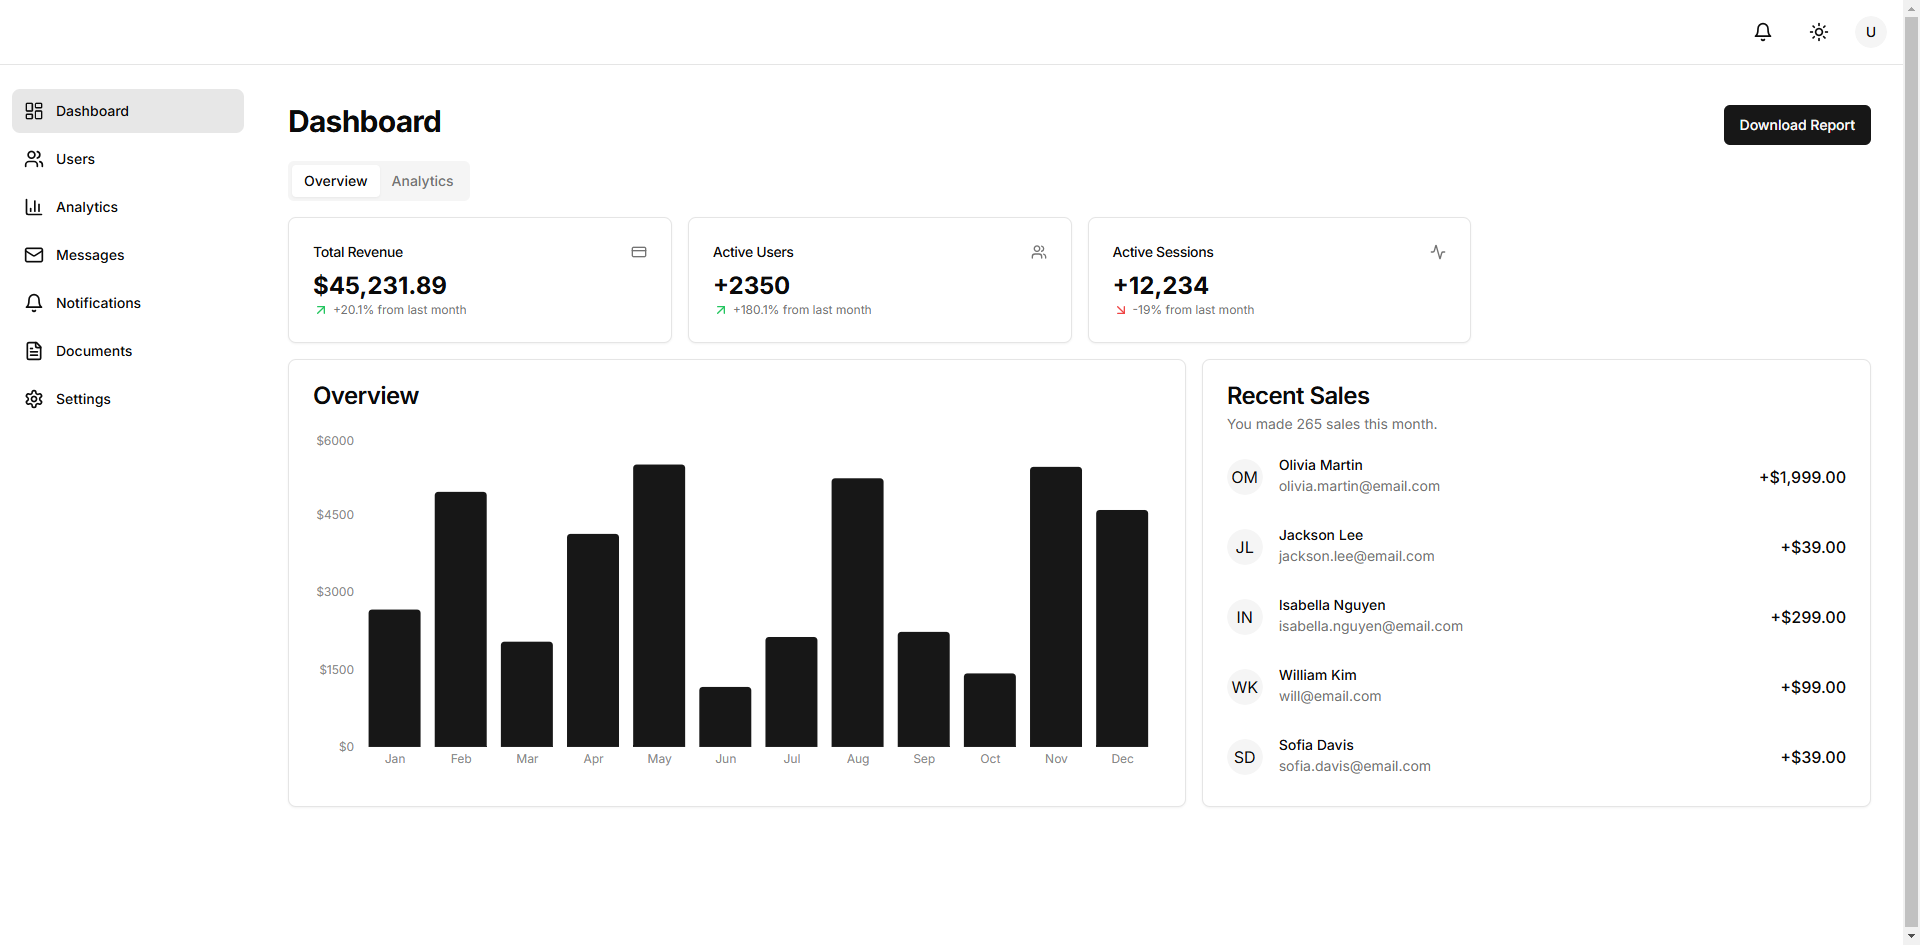
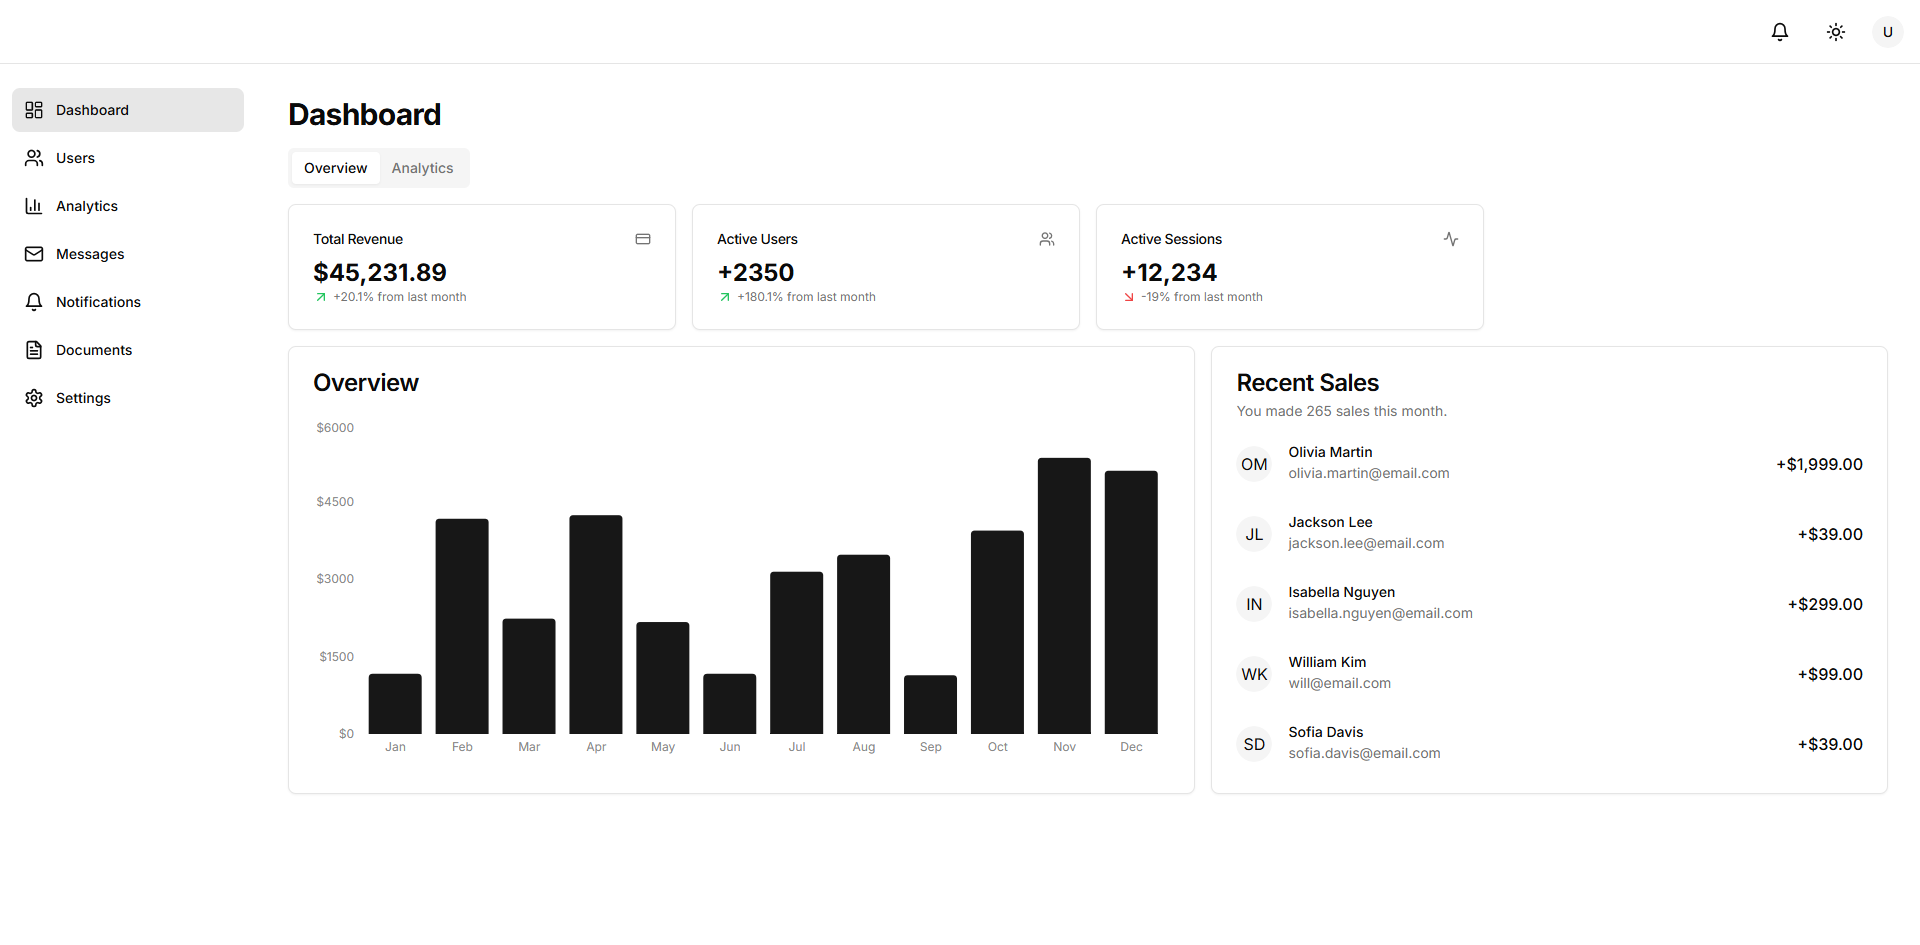
repair

diff --git a/app/(dashboard)/dashboard/page.tsx b/app/(dashboard)/dashboard/page.tsx
@@ -3,92 +3,89 @@ import {
   CardContent,
   CardDescription,
   CardHeader,
-  CardTitle,
-} from '@/components/ui/card';
-import { Overview } from '@/components/overview';
-import { RecentSales } from '@/components/recent-sales';
-import { Button } from '@/components/ui/button';
-import { Tabs, TabsContent, TabsList, TabsTrigger } from '@/components/ui/tabs';
+  CardTitle
+} from '@/components/ui/card'
+import { Overview } from '@/components/overview'
+import { RecentSales } from '@/components/recent-sales'
+import { Button } from '@/components/ui/button'
+import { Tabs, TabsContent, TabsList, TabsTrigger } from '@/components/ui/tabs'
 import {
   ArrowUpRight,
   Users,
   CreditCard,
   Activity,
-  ArrowDownRight,
-} from 'lucide-react';
+  ArrowDownRight
+} from 'lucide-react'
 
-export default function DashboardPage() {
+export default function DashboardPage () {
   return (
-    <div className="flex-1 space-y-4">
-      <div className="flex items-center justify-between space-y-2">
-        <h2 className="text-3xl font-bold tracking-tight">Dashboard</h2>
-        <div className="flex items-center space-x-2">
-          <Button>Download Report</Button>
-        </div>
+    <div className='flex-1 space-y-4'>
+      <div className='flex items-center justify-between space-y-2'>
+        <h2 className='text-3xl font-bold tracking-tight'>Dashboard</h2>
       </div>
-      <Tabs defaultValue="overview" className="space-y-4">
+      <Tabs defaultValue='overview' className='space-y-4'>
         <TabsList>
-          <TabsTrigger value="overview">Overview</TabsTrigger>
-          <TabsTrigger value="analytics">Analytics</TabsTrigger>
+          <TabsTrigger value='overview'>Overview</TabsTrigger>
+          <TabsTrigger value='analytics'>Analytics</TabsTrigger>
         </TabsList>
-        <TabsContent value="overview" className="space-y-4">
-          <div className="grid gap-4 md:grid-cols-2 lg:grid-cols-4">
+        <TabsContent value='overview' className='space-y-4'>
+          <div className='grid gap-4 md:grid-cols-2 lg:grid-cols-4'>
             <Card>
-              <CardHeader className="flex flex-row items-center justify-between space-y-0 pb-2">
-                <CardTitle className="text-sm font-medium">
+              <CardHeader className='flex flex-row items-center justify-between space-y-0 pb-2'>
+                <CardTitle className='text-sm font-medium'>
                   Total Revenue
                 </CardTitle>
-                <CreditCard className="h-4 w-4 text-muted-foreground" />
+                <CreditCard className='h-4 w-4 text-muted-foreground' />
               </CardHeader>
               <CardContent>
-                <div className="text-2xl font-bold">$45,231.89</div>
-                <p className="text-xs text-muted-foreground flex items-center">
-                  <ArrowUpRight className="h-4 w-4 text-green-500 mr-1" />
+                <div className='text-2xl font-bold'>$45,231.89</div>
+                <p className='text-xs text-muted-foreground flex items-center'>
+                  <ArrowUpRight className='h-4 w-4 text-green-500 mr-1' />
                   +20.1% from last month
                 </p>
               </CardContent>
             </Card>
             <Card>
-              <CardHeader className="flex flex-row items-center justify-between space-y-0 pb-2">
-                <CardTitle className="text-sm font-medium">
+              <CardHeader className='flex flex-row items-center justify-between space-y-0 pb-2'>
+                <CardTitle className='text-sm font-medium'>
                   Active Users
                 </CardTitle>
-                <Users className="h-4 w-4 text-muted-foreground" />
+                <Users className='h-4 w-4 text-muted-foreground' />
               </CardHeader>
               <CardContent>
-                <div className="text-2xl font-bold">+2350</div>
-                <p className="text-xs text-muted-foreground flex items-center">
-                  <ArrowUpRight className="h-4 w-4 text-green-500 mr-1" />
+                <div className='text-2xl font-bold'>+2350</div>
+                <p className='text-xs text-muted-foreground flex items-center'>
+                  <ArrowUpRight className='h-4 w-4 text-green-500 mr-1' />
                   +180.1% from last month
                 </p>
               </CardContent>
             </Card>
             <Card>
-              <CardHeader className="flex flex-row items-center justify-between space-y-0 pb-2">
-                <CardTitle className="text-sm font-medium">
+              <CardHeader className='flex flex-row items-center justify-between space-y-0 pb-2'>
+                <CardTitle className='text-sm font-medium'>
                   Active Sessions
                 </CardTitle>
-                <Activity className="h-4 w-4 text-muted-foreground" />
+                <Activity className='h-4 w-4 text-muted-foreground' />
               </CardHeader>
               <CardContent>
-                <div className="text-2xl font-bold">+12,234</div>
-                <p className="text-xs text-muted-foreground flex items-center">
-                  <ArrowDownRight className="h-4 w-4 text-red-500 mr-1" />
+                <div className='text-2xl font-bold'>+12,234</div>
+                <p className='text-xs text-muted-foreground flex items-center'>
+                  <ArrowDownRight className='h-4 w-4 text-red-500 mr-1' />
                   -19% from last month
                 </p>
               </CardContent>
             </Card>
           </div>
-          <div className="grid gap-4 grid-cols-1 md:grid-cols-2 lg:grid-cols-7">
-            <Card className="col-span-4">
+          <div className='grid gap-4 grid-cols-1 md:grid-cols-2 lg:grid-cols-7'>
+            <Card className='col-span-4'>
               <CardHeader>
                 <CardTitle>Overview</CardTitle>
               </CardHeader>
-              <CardContent className="pl-2">
+              <CardContent className='pl-2'>
                 <Overview />
               </CardContent>
             </Card>
-            <Card className="col-span-3">
+            <Card className='col-span-3'>
               <CardHeader>
                 <CardTitle>Recent Sales</CardTitle>
                 <CardDescription>
@@ -103,5 +100,5 @@ export default function DashboardPage() {
         </TabsContent>
       </Tabs>
     </div>
-  );
+  )
 }

diff --git a/components/header.tsx b/components/header.tsx
@@ -1,53 +1,53 @@
-'use client';
+'use client'
 
-import { ThemeToggle } from '@/components/theme-toggle';
-import { Button } from '@/components/ui/button';
+import { ThemeToggle } from '@/components/theme-toggle'
+import { Button } from '@/components/ui/button'
 import {
   DropdownMenu,
   DropdownMenuContent,
   DropdownMenuItem,
   DropdownMenuLabel,
   DropdownMenuSeparator,
-  DropdownMenuTrigger,
-} from '@/components/ui/dropdown-menu';
-import { Avatar, AvatarFallback, AvatarImage } from '@/components/ui/avatar';
-import { Bell, Menu } from 'lucide-react';
-import { Sheet, SheetContent, SheetTrigger } from '@/components/ui/sheet';
-import { Sidebar } from '@/components/sidebar';
+  DropdownMenuTrigger
+} from '@/components/ui/dropdown-menu'
+import { Avatar, AvatarFallback, AvatarImage } from '@/components/ui/avatar'
+import { Bell, Menu } from 'lucide-react'
+import { Sheet, SheetContent, SheetTrigger } from '@/components/ui/sheet'
+import { Sidebar } from '@/components/sidebar'
 
-export function Header() {
+export function Header () {
   return (
-    <div className="border-b">
-      <div className="flex h-16 items-center px-4">
+    <div className='border-b h-[4rem]'>
+      <div className='flex h-16 items-center px-4'>
         <Sheet>
           <SheetTrigger asChild>
-            <Button variant="ghost" size="icon" className="md:hidden">
-              <Menu className="h-6 w-6" />
+            <Button variant='ghost' size='icon' className='md:hidden'>
+              <Menu className='h-6 w-6' />
             </Button>
           </SheetTrigger>
-          <SheetContent side="left" className="p-0">
+          <SheetContent side='left' className='p-0'>
             <Sidebar />
           </SheetContent>
         </Sheet>
-        <div className="ml-auto flex items-center space-x-4">
-          <Button variant="ghost" size="icon">
-            <Bell className="h-5 w-5" />
+        <div className='ml-auto flex items-center space-x-4'>
+          <Button variant='ghost' size='icon'>
+            <Bell className='h-5 w-5' />
           </Button>
           <ThemeToggle />
           <DropdownMenu>
             <DropdownMenuTrigger asChild>
-              <Button variant="ghost" className="relative h-8 w-8 rounded-full">
-                <Avatar className="h-8 w-8">
-                  <AvatarImage src="/avatars/01.png" alt="@user" />
+              <Button variant='ghost' className='relative h-8 w-8 rounded-full'>
+                <Avatar className='h-8 w-8'>
+                  <AvatarImage src='/avatars/01.png' alt='@user' />
                   <AvatarFallback>U</AvatarFallback>
                 </Avatar>
               </Button>
             </DropdownMenuTrigger>
-            <DropdownMenuContent className="w-56" align="end" forceMount>
-              <DropdownMenuLabel className="font-normal">
-                <div className="flex flex-col space-y-1">
-                  <p className="text-sm font-medium leading-none">Admin User</p>
-                  <p className="text-xs leading-none text-muted-foreground">
+            <DropdownMenuContent className='w-56' align='end' forceMount>
+              <DropdownMenuLabel className='font-normal'>
+                <div className='flex flex-col space-y-1'>
+                  <p className='text-sm font-medium leading-none'>Admin User</p>
+                  <p className='text-xs leading-none text-muted-foreground'>
                     admin@example.com
                   </p>
                 </div>
@@ -61,5 +61,5 @@ export function Header() {
         </div>
       </div>
     </div>
-  );
+  )
 }

diff --git a/app/(dashboard)/layout.tsx b/app/(dashboard)/layout.tsx
@@ -1,22 +1,20 @@
-import { Header } from '@/components/header';
-import { Sidebar } from '@/components/sidebar';
+import { Header } from '@/components/header'
+import { Sidebar } from '@/components/sidebar'
 
-export default function DashboardLayout({
-  children,
+export default function DashboardLayout ({
+  children
 }: {
-  children: React.ReactNode;
+  children: React.ReactNode
 }) {
   return (
-    <div className="h-screen">
+    <div className='h-screen'>
       <Header />
-      <div className="flex h-[calc(100vh-4rem)]">
-        <div className="hidden md:flex w-64 flex-col">
+      <div className='flex h-[calc(100vh-4rem)]'>
+        <div className='hidden md:flex w-64 flex-col'>
           <Sidebar />
         </div>
-        <main className="flex-1 overflow-y-auto p-8">
-          {children}
-        </main>
+        <main className='flex-1 overflow-y-auto p-8'>{children}</main>
       </div>
     </div>
-  );
+  )
 }
